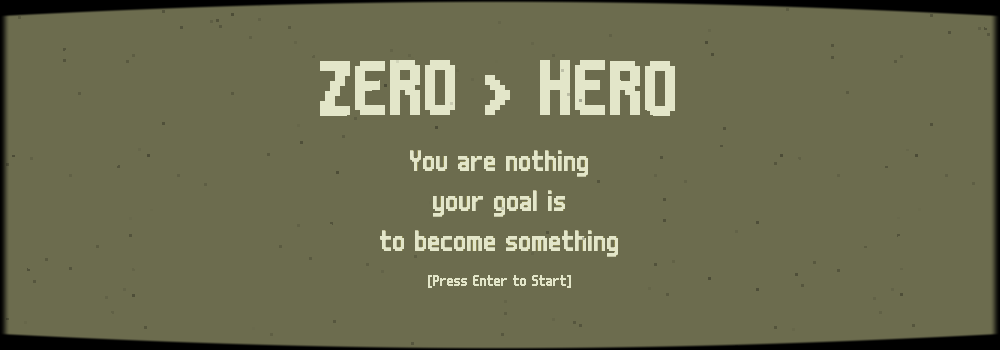
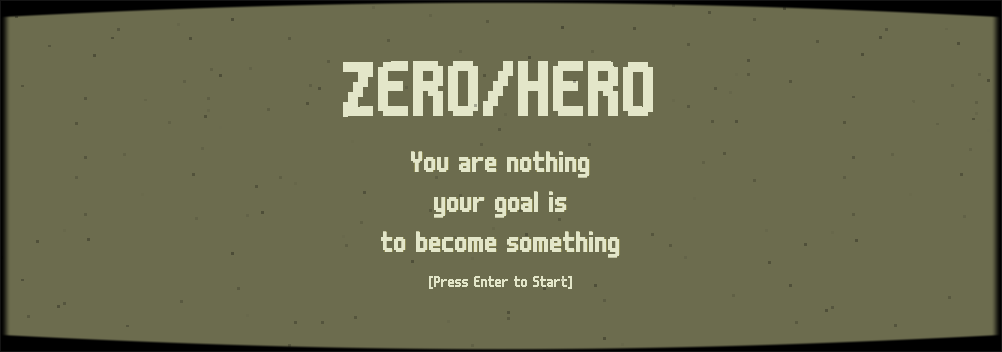
Update name / screenshot

diff --git a/README.md b/README.md
@@ -1,3 +1,3 @@
-# Zero > Hero
+# Zero/Hero
 
 ![screenshot](screenshot.png)
